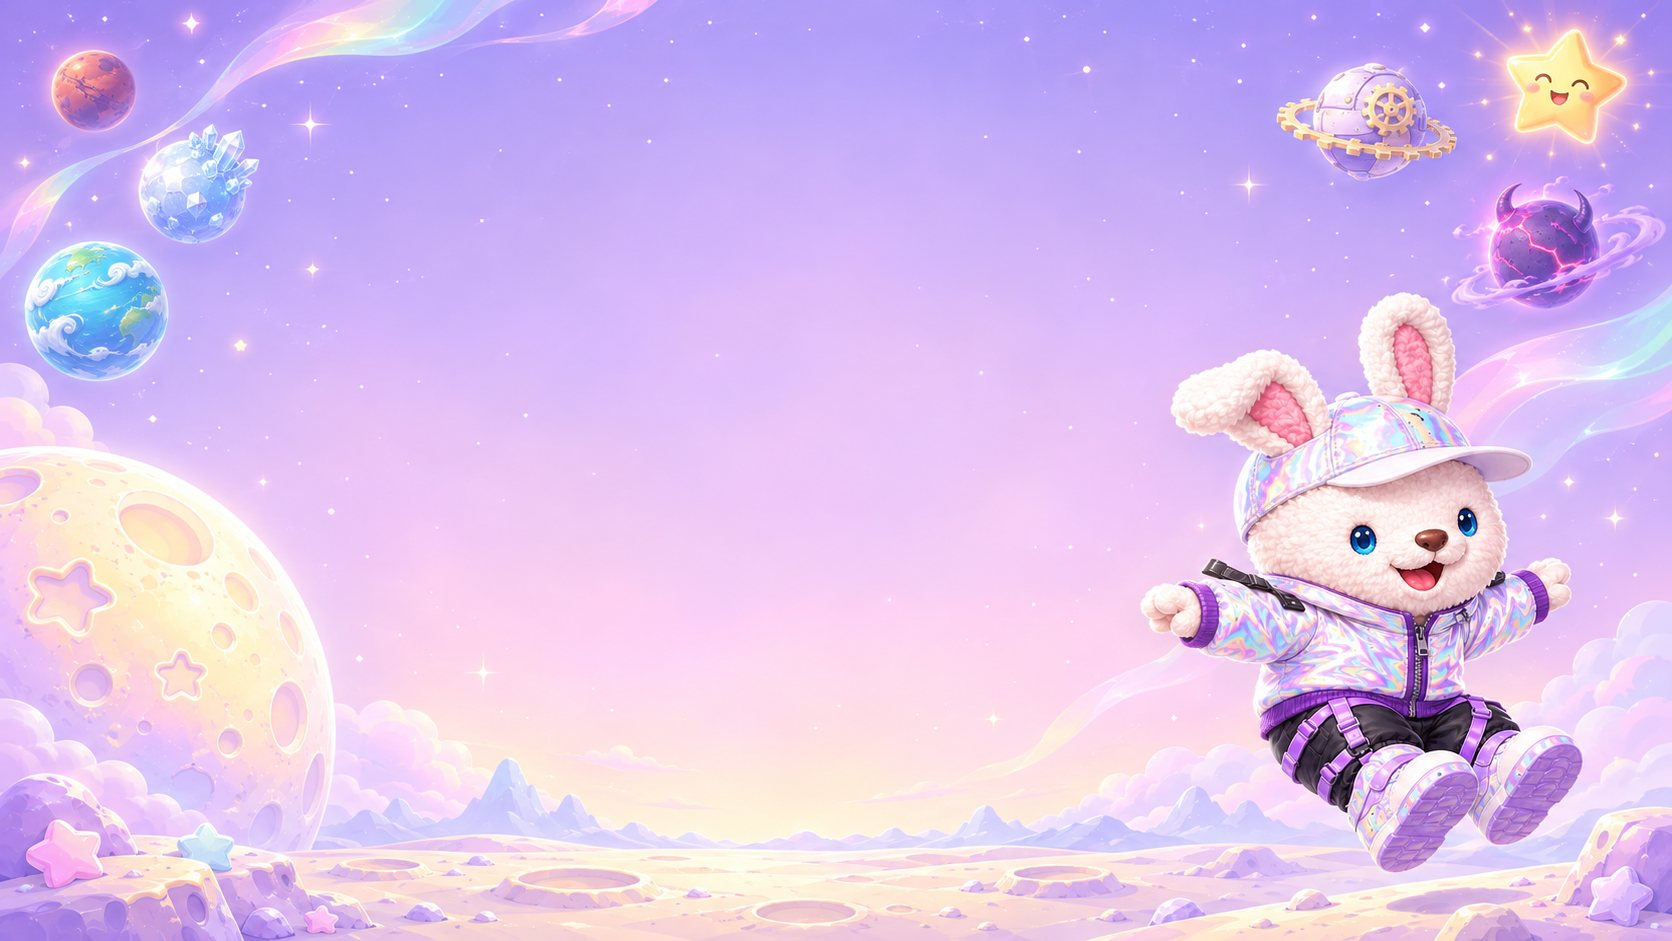
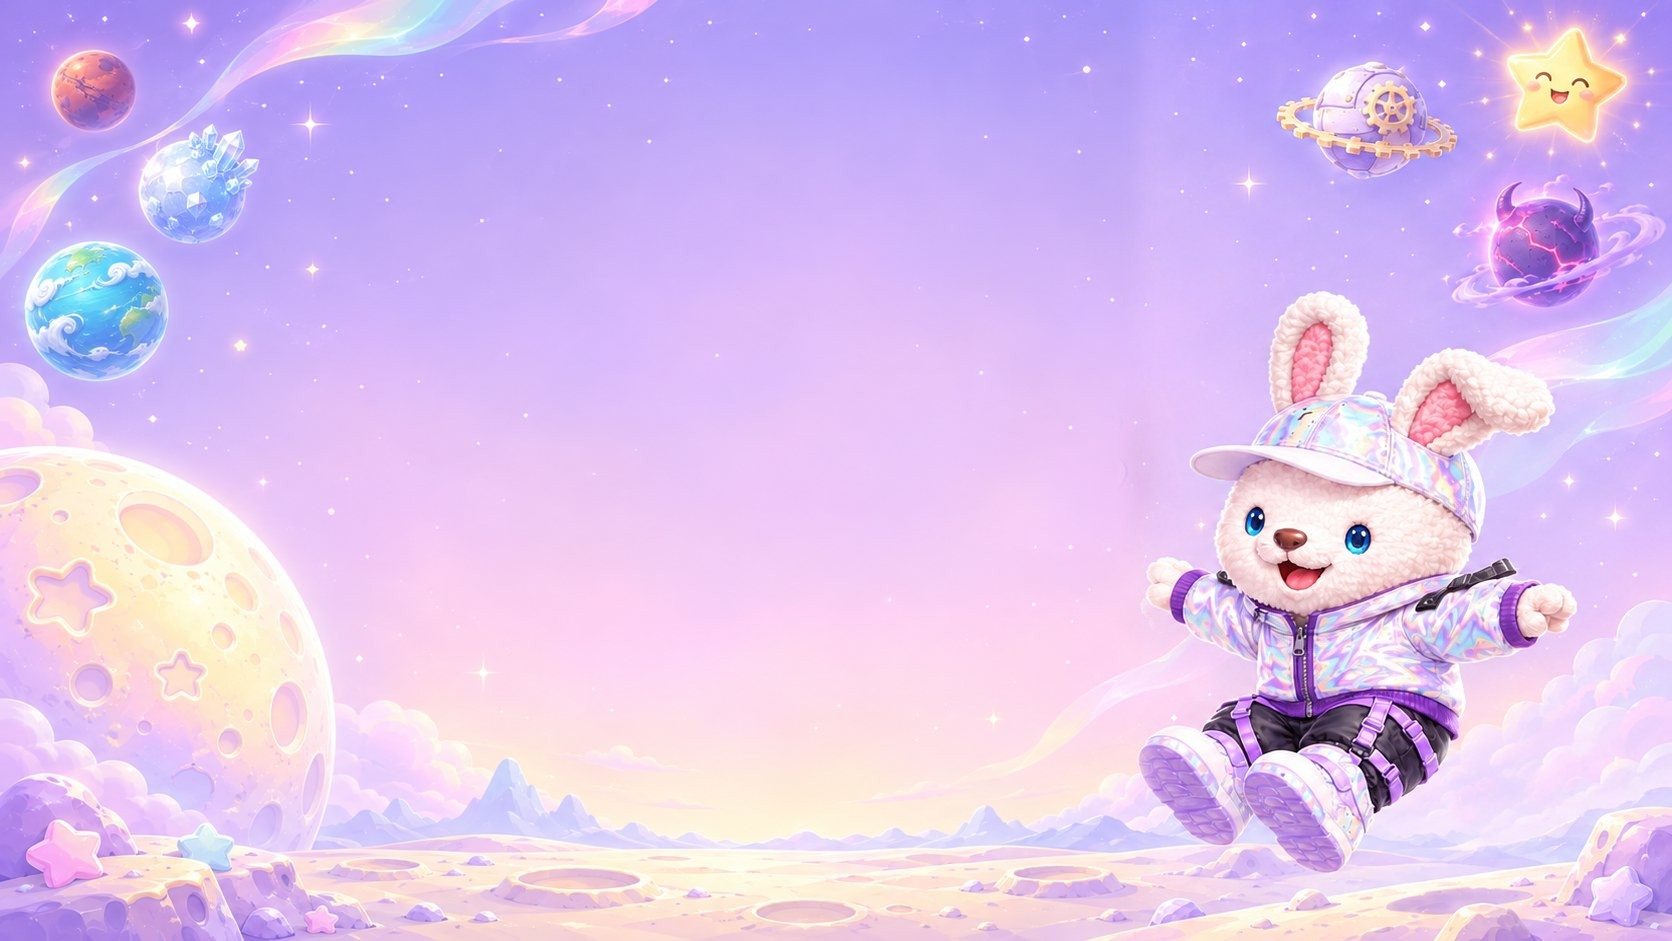
Game hero: switch to the key visual with Pyonpy facing inward
Claude-Session: https://claude.ai/code/session_01En8pfFJiDrG4nsG9QzQTWP

diff --git a/game.html b/game.html
@@ -8,7 +8,7 @@
   <meta name="description" content="ムーニアンズのアクションゲーム「ぴょんぴーの大冒険 〜ワライスターをとりもどせ〜」。ブラウザで無料で遊べます。6つの星、全35ステージ。">
   <meta property="og:type" content="website">
   <meta property="og:title" content="ぴょんぴーの大冒険｜ムーニアンズのゲーム">
-  <meta property="og:image" content="https://arsdavinci.github.io/moonians-official/assets/game/title-keyvisual.jpg">
+  <meta property="og:image" content="https://arsdavinci.github.io/moonians-official/assets/game/title-keyvisual.jpg?v=2">
   <meta name="twitter:card" content="summary_large_image">
   <link rel="canonical" href="https://arsdavinci.github.io/moonians-official/game.html">
   <link rel="icon" href="assets/embassy.png" type="image/png">
@@ -31,7 +31,7 @@
   </header>
   <main id="main">
     <section class="anime-hero game-hero" aria-label="ぴょんぴーの大冒険">
-      <img class="anime-hero-bg" src="assets/game/title-keyvisual.jpg" alt="ぴょんぴーの大冒険のキービジュアル" width="1672" height="941" fetchpriority="high">
+      <img class="anime-hero-bg" src="assets/game/title-keyvisual.jpg?v=2" alt="ぴょんぴーの大冒険のキービジュアル" width="1672" height="941" fetchpriority="high">
       <div class="anime-hero-shade"></div>
       <div class="section-wrap anime-hero-copy game-hero-grid">
         <div class="game-hero-text">
